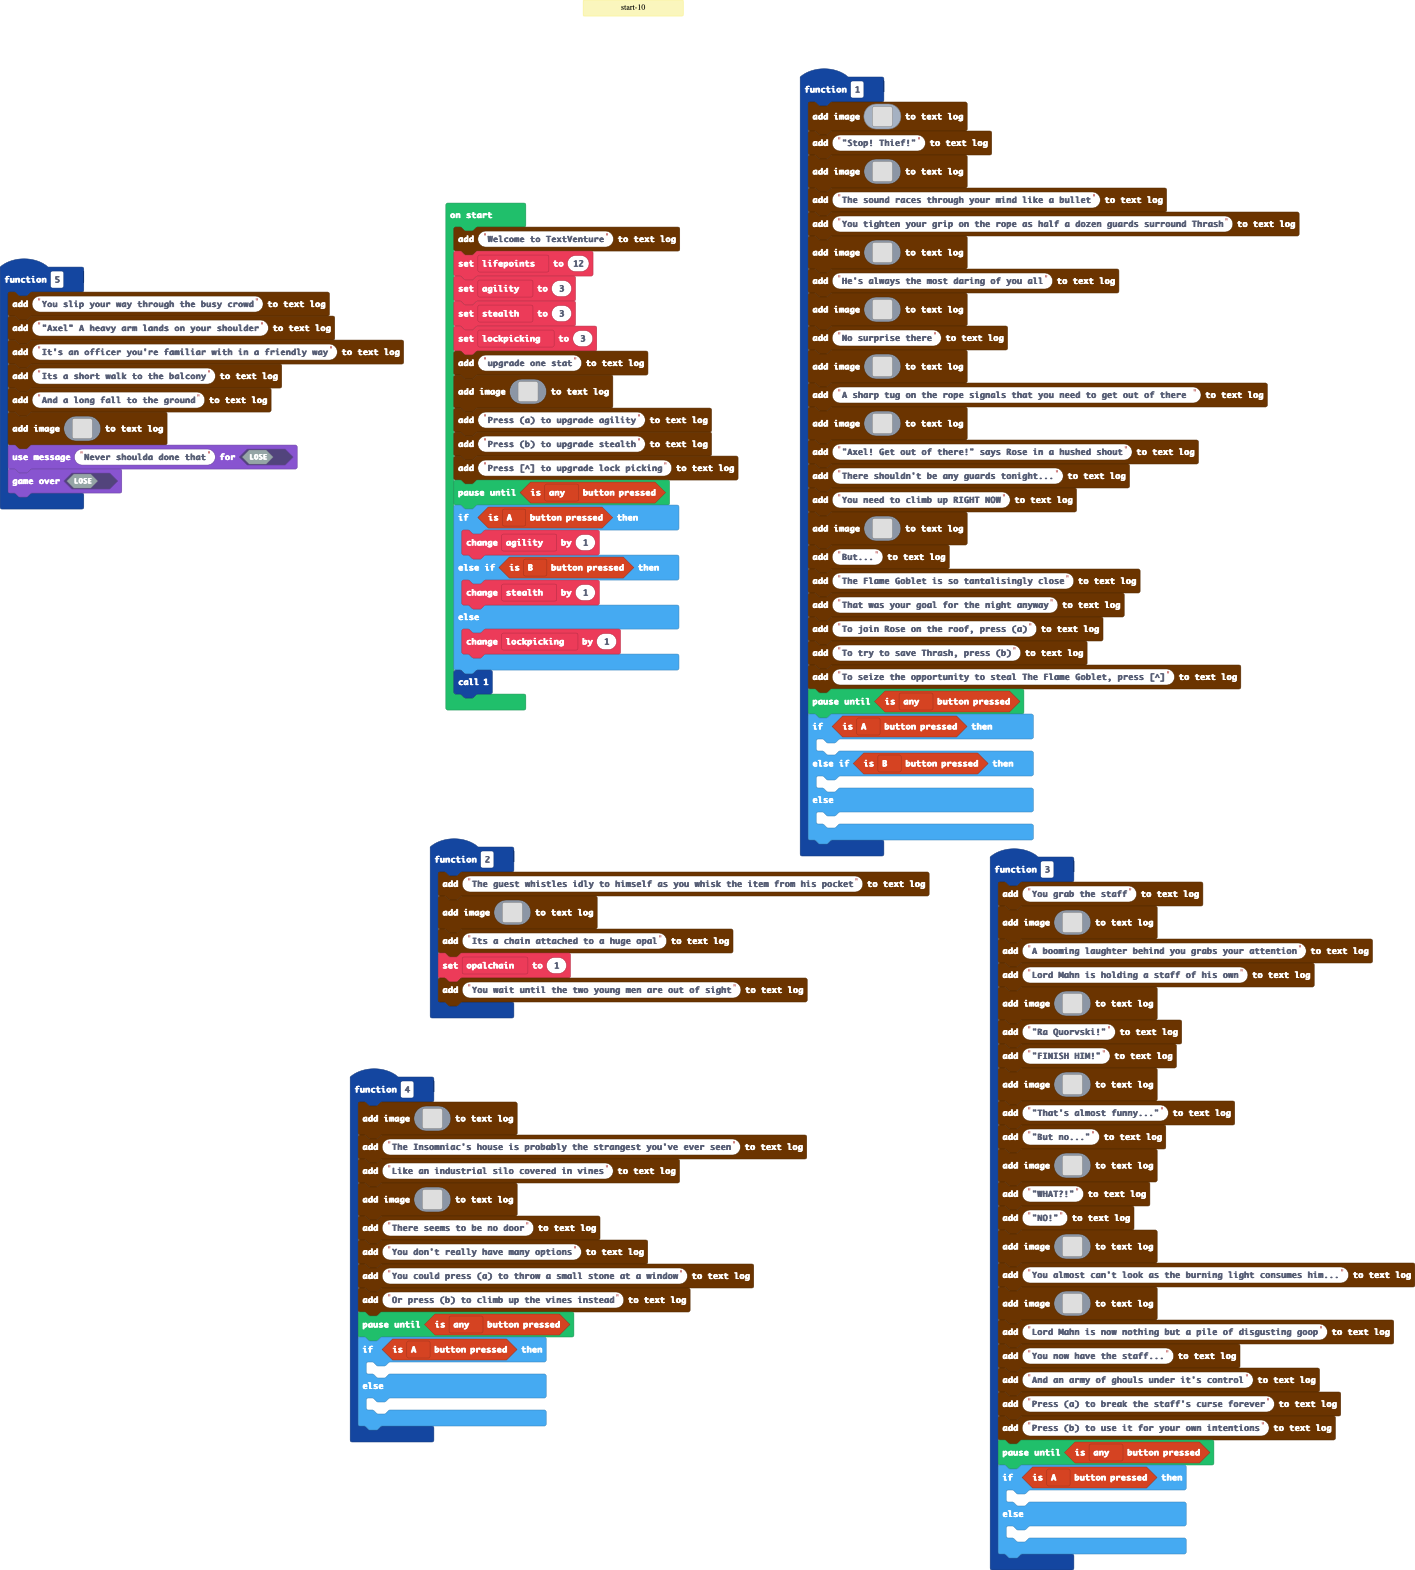
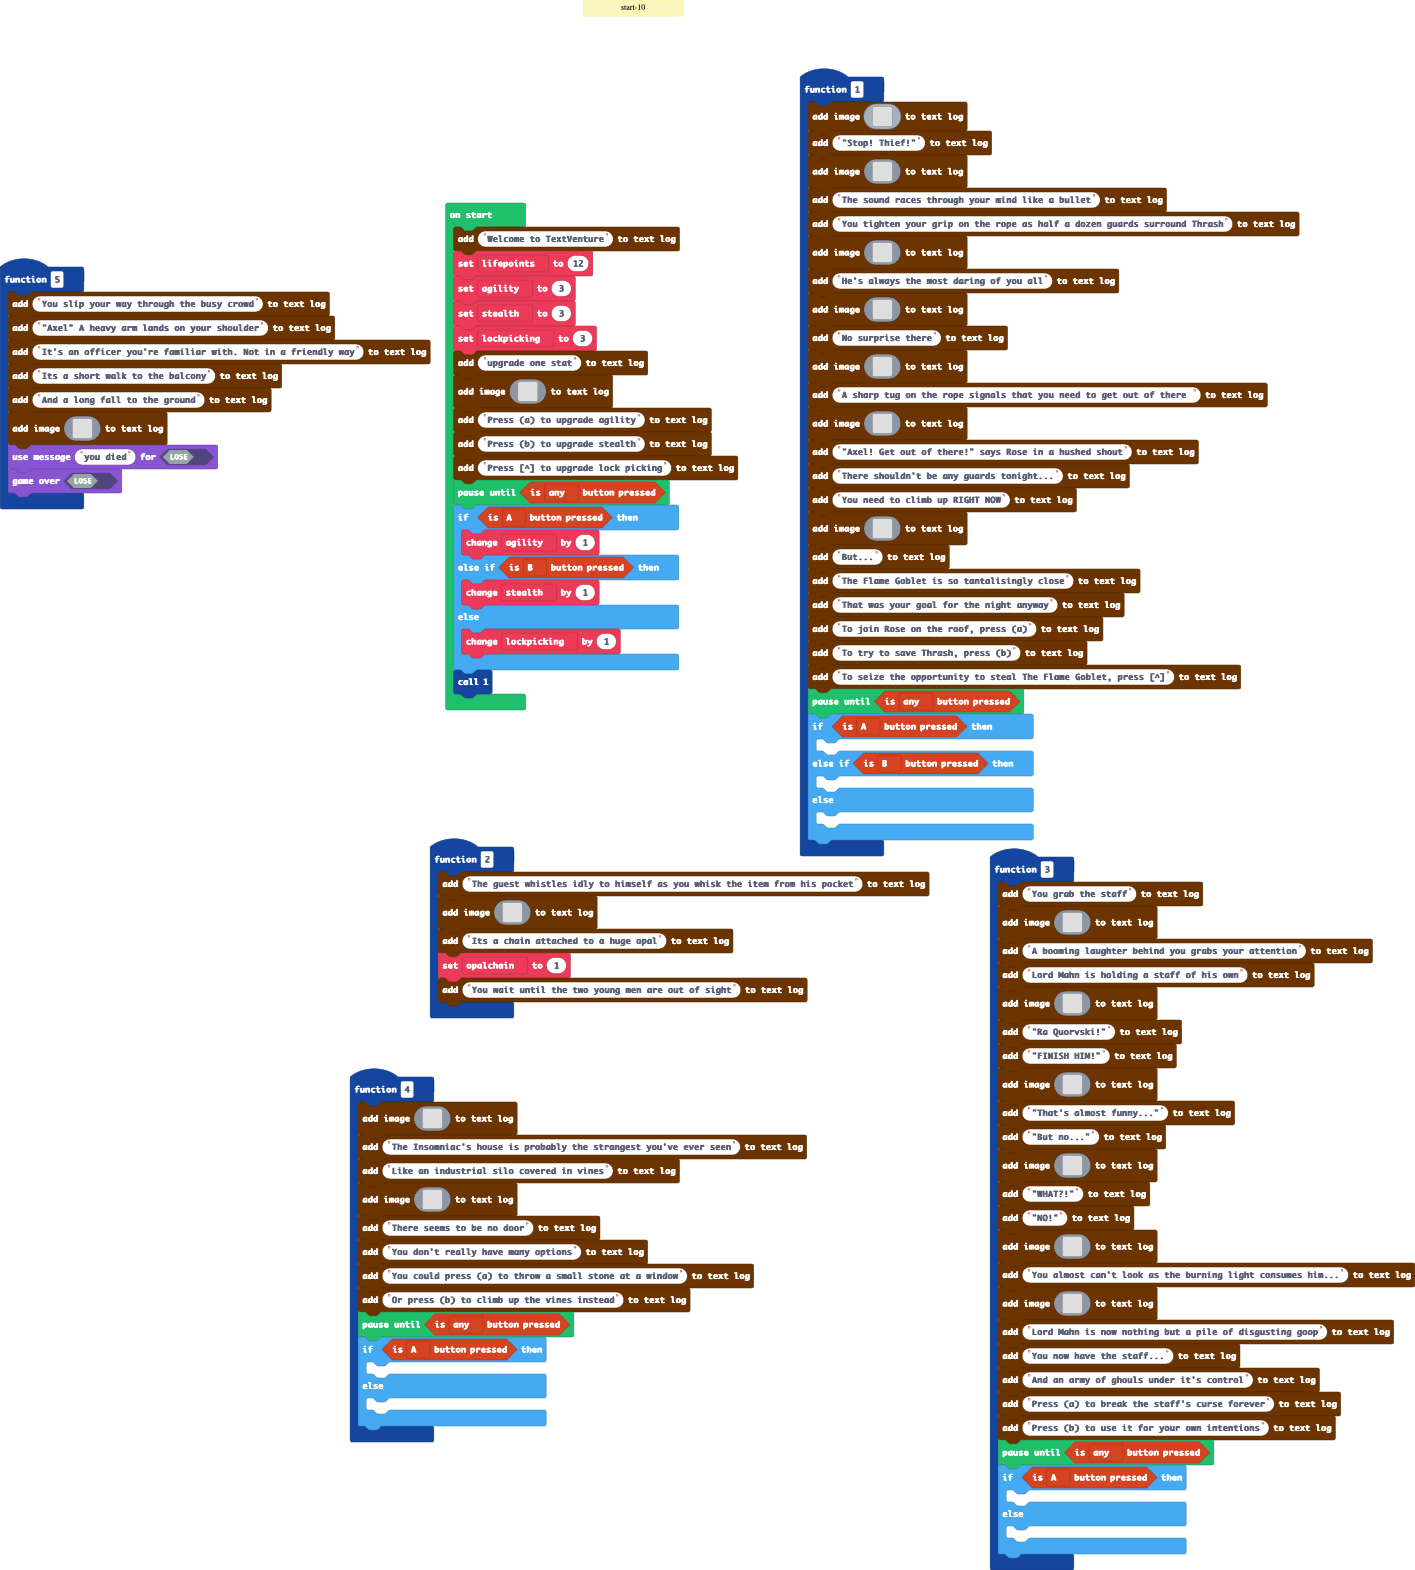
Update main.blocks, main.ts, images.g.jres, images.g.ts

Changed region(s): [[0.342, 0.2497, 0.4664, 0.3121], [0.1555, 0.2185, 0.311, 0.2497], [0.0933, 0.2809, 0.2177, 0.3121]]

diff --git a/main.ts b/main.ts
@@ -11,11 +11,11 @@ function _2 () {
 function _5 () {
     adventure.addToTextlog("You slip your way through the busy crowd")
     adventure.addToTextlog("\"Axel\" A heavy arm lands on your shoulder")
-    adventure.addToTextlog("It's an officer you're familiar with in a friendly way")
+    adventure.addToTextlog("It's an officer you're familiar with. Not in a friendly way")
     adventure.addToTextlog("Its a short walk to the balcony")
     adventure.addToTextlog("And a long fall to the ground")
-    adventure.addImageToTextLog(assets.image`sploosh`)
-    game.setGameOverMessage(false, "Never shoulda done that")
+    adventure.addImageToTextLog(assets.image`thud`)
+    game.setGameOverMessage(false, "you died")
     game.gameOver(false)
 }
 function _3 () {

diff --git a/images.g.ts b/images.g.ts
@@ -549,12 +549,12 @@ b 7 b b b b b b b b b b b b b b
 b 7 b b b 1 b b b b b 1 b b b b 
 `;
             case "image16":
-            case "sploosh":return img`
+            case "thud":return img`
 f f f f f f f f f f f f f f f f 
-f 5 5 5 f 5 f 5 f 5 f 5 f 5 5 f 
-f 7 5 7 7 5 f 5 f 5 f 5 f 5 f 5 
-f 7 5 7 4 5 5 5 f 5 7 5 7 5 f 5 
-f 7 5 7 7 5 f 5 f 5 5 5 4 5 5 f 
+f f f f f f f f f f f f f f f f 
+f 7 7 7 7 7 f f f f f f f f f f 
+f 7 7 7 4 7 f f f 7 7 7 7 7 f f 
+f 7 7 7 7 7 f f f 7 7 7 4 7 f f 
 c 7 4 7 7 7 c c c 7 4 7 7 7 c c 
 c 7 7 7 7 7 c c c 7 7 7 4 7 c c 
 c c c 7 7 7 7 7 c 7 7 7 7 7 c c 
